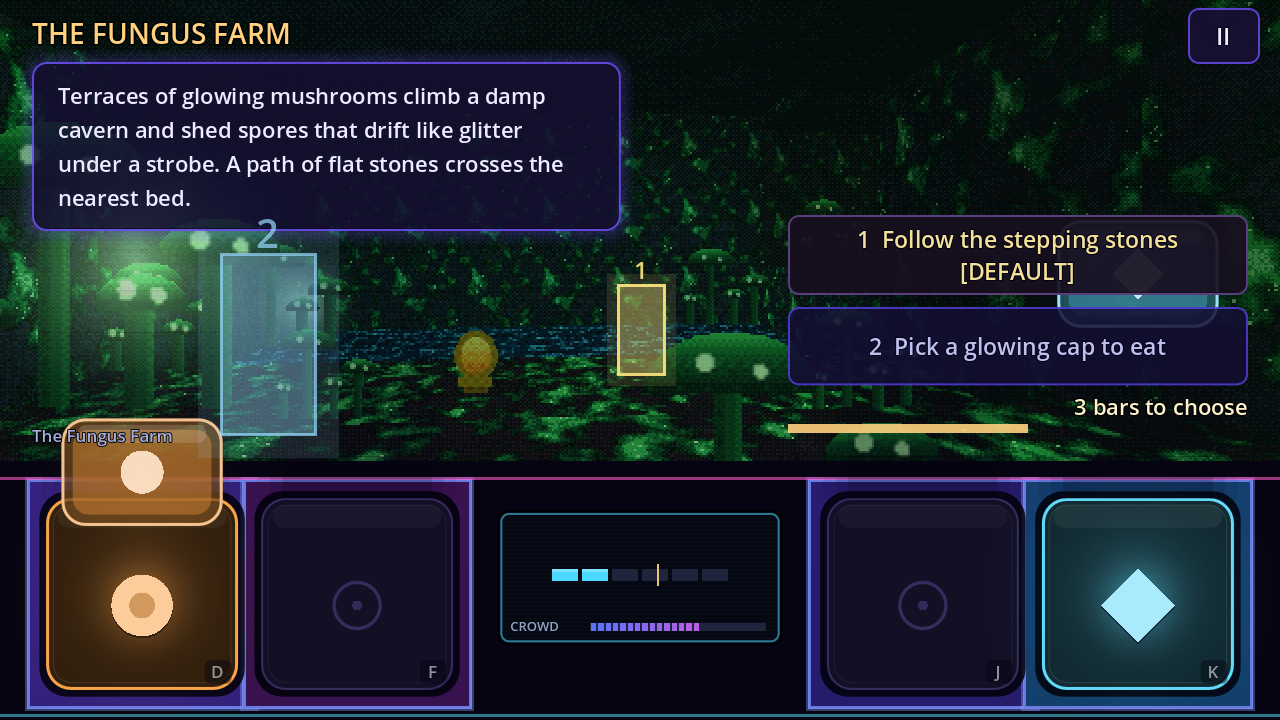
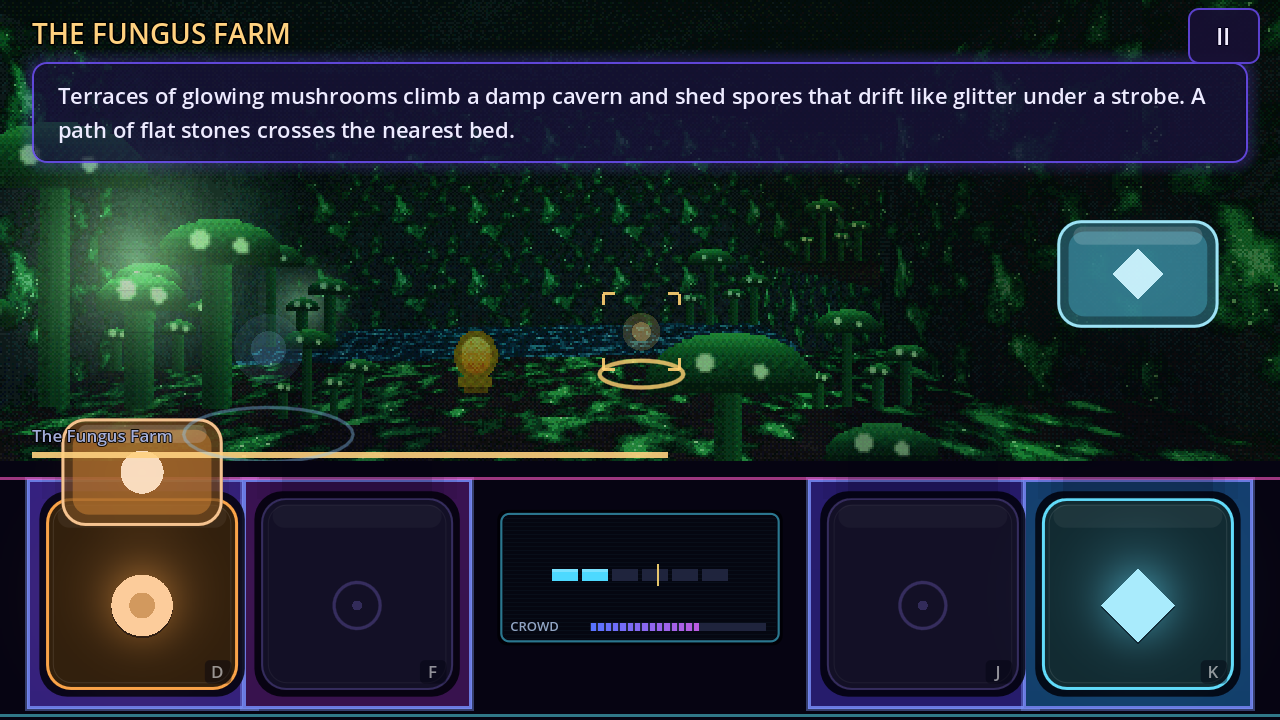
Visual, D tests, walks, shots and docs: tap walk, hotspot lights wait for the zone swap, capture before and after a selection, a fight, a death, the victory; docs for the touch model; progress note

diff --git a/docs/TRIAL_OPENING.md b/docs/TRIAL_OPENING.md
@@ -2,7 +2,7 @@
 
 The wizard in the Warehouse runs a trial in the cellars under the club: a gamebook-style dungeon, played on the same four pads, the same clock and the same music as the run. It is an original
 dungeon (63 passages in 16 zones, 10 creatures, 3 items, one victory) and it is **in the 2.5D world of the rest of the game**: each zone is a small Doom-style map on the story engine, the camera
-walks on rails between the passages' places, the choices are lit exits in the room, the creatures stand in the room, and entering and leaving are **seamless**: no scene change, no audio gap, no
+walks on rails between the passages' places, the choices are **hotspots in the room** (tap the lit exit, the creature, the rope), the creatures stand in the room, and entering and leaving are **seamless**: no scene change, no audio gap, no
 clock reset. **Only a death, three lost fight phrases, the victory or the back key lead back to the Warehouse.** This file is the single document for it. `assets/trial/PROVENANCE.md` says what is
 in the repository and where it came from.
 
@@ -13,15 +13,18 @@ godot --path .                      # Play; in the Warehouse level a wizard stan
 godot --path . res://src/trial/trial_play.tscn          # straight into the dungeon (hands over to the run scene, which hosts the dungeon)
 RW_TRIAL_START=12 godot --path . res://src/trial/trial_play.tscn       # start at any passage (12 the eel, 13 a death, 59 the Echo, 63 the victory)
 RW_TRIAL_BOT=perfect RW_TRIAL_CHOICES=d,d,1,0 godot --path . res://src/trial/trial_play.tscn   # scripted: the picks made in each window in turn
-bash tools/trial/walk_trial.sh      # scripted, headless: Warehouse > wizard > hatch > the default walk to the victory > back up into the Warehouse (isolated save)
-bash tools/trial/capture.sh         # a screenshot per zone and docs/shots/trial/contact_bassment.jpg
+RW_TRIAL_BOT=perfect RW_TRIAL_TAPS="d;d;1;0" godot --path . res://src/trial/trial_play.tscn      # the same, but each pick is a finger on the hotspot's centre, through the hit test
+bash tools/trial/walk_trial.sh      # scripted, headless: Warehouse > wizard > hatch > the default walk to the victory, then a walk whose picks are taps > back up into the Warehouse (isolated save)
+bash tools/trial/capture.sh         # a screenshot per zone, before and after a selection, a fight, a death, the victory (needs a display) and docs/shots/trial/contact_bassment.jpg
+python3 tools/trial/make_hotspots.py                                    # rewrite content/trial/hotspots.json (and the marker things of the maps) from passages.json
 godot --headless --path . -s tools/trial/validate.gd                    # check the data (passages, graph, zone maps, waypoints, exits)
-godot --headless --path . -s tools/trial/check_maps.gd [-- zone ...]    # check the zone maps and layouts one by one
+godot --headless --path . -s tools/trial/check_maps.gd [-- zone ...]    # check the zone maps, layouts and every hotspot's anchor one by one
 godot --headless --path . -s tests/run_tests.gd -- --filter trial       # the tests
 ```
 
 Bots: `perfect` plays every cue, `none` plays nothing, `no_fights` plays every cue except a fight's. `RW_TRIAL_CHOICES` is the pick made in each window in turn (an index, or `d` / empty for
-no pick, so the default applies). `RW_TRIAL_UNTIL=<passage>` with `RW_STORY_QUIT=1` quits when that passage is shown. In the run scene: `RW_TRIAL_ENTER=1` chooses the wizard at once,
+no pick, so the default applies); `RW_TRIAL_TAPS` is the same list (`;` or `,` between windows) but each pick is a **tap**: a finger on the centre of that hotspot's target, through the hit test a phone uses
+(it waits for the room to be lit after a zone swap and prints `TRIAL tap <aimed> -> <hit>`). `RW_TRIAL_UNTIL=<passage>` with `RW_STORY_QUIT=1` quits when that passage is shown. In the run scene: `RW_TRIAL_ENTER=1` chooses the wizard at once,
 `RW_TRIAL_LEAVE_AT=<song s>` presses the back key then, `RW_TRIAL_TRACE=1` prints every passage.
 
 ## The seamless entry and exit
@@ -41,29 +44,32 @@ no pick, so the default applies). `RW_TRIAL_UNTIL=<passage>` with `RW_STORY_QUIT
 
 ## How it plays
 
-* **Warehouse.** The wizard (`assets/trial/art/wizard.png`) waits at the left of the stage with a floating **Enter the Trial**, only in the Warehouse level. Ignoring it changes nothing:
-  the run goes on by its ordinary routes. Choosing it walks into the dungeon (see above).
+* **Warehouse.** The wizard (`assets/trial/art/wizard.png`) waits at the left of the stage with a floating **Enter the Trial**, only in the Warehouse level (the engine workstream turns him into a character hotspot;
+  the entry and the walk back out are unchanged). Ignoring it changes nothing: the run goes on by its ordinary routes. Choosing it walks into the dungeon (see above).
 * **The music game never stops.** Cues fall on the four pads the whole time, in 16-beat blocks (four bars) on the same clock, packs and judge as the run. Nothing pauses for reading
   or choosing.
-* **A passage.** The camera stands in the passage's place in its zone map, the title and two to four sentences appear over the room, the choices **float** at the right (big touch targets, keys 1
-  to 4) and each is also **lit in the room as a numbered exit** (a door, a ladder foot, a gap, the water's edge, a seam) where it lies; a footer names the zone and the items you carry.
-  The only inputs are the choices and the pads (the system back key leaves the dungeon; it is not a game input).
-* **Four bars to choose.** When a passage appears its choices float for exactly four bars, with a bar showing the time left. One choice is marked `[DEFAULT]`. Tap another to pick it (tap
-  again to change your mind, up to the last beat). When the four bars end the game moves on with your pick, or with the default if you picked nothing. A choice that needs an item you do
-  not hold is not shown.
-* **The phrase.** A committed choice is played as the next block of cues: a drums or bass phrase of the tier its data names. Between the choices and the phrase the music and the pads carry
+* **A passage.** The camera stands in the passage's place in its zone map. Across the top is the **caption band**: the title and two to four sentences of narrative (what the place is, what is
+  in it), never a choice, with the consequence of the last move or the stumble of a failed one on a line of its own. **Every choice is a hotspot in the room**, drawn as light and no words: a ring on the
+  floor and a glow on the thing, and four corner ticks on the default; an exit is lit where it lies (a door, a ladder foot, a gap, the water's edge, a seam), a creature **stands in the room** and
+  the fight is a tap on it, an item's place (the cracked crystal, the dark archway, a stone palm) is an object, a luck test is a feature (the pipes, the rope, the barrels, the door's grille). A hotspot behind
+  the camera is a chevron at the screen edge on its side, so everything can be tapped without turning. Targets are at least 72 px across and sit only in the picture above the pads. A footer names the
+  zone and the items you carry. The only inputs are the hotspots and the pads (the system back key leaves the dungeon; it is not a game input; keys 1 to 4 pick the hotspots in order on a desktop).
+* **Four bars to choose.** When a passage appears its hotspots are lit for exactly four bars; a thin bar along the bottom of the picture (no text) shows the time left. **One is brighter: the default**,
+  what happens if nobody chooses. Tap another to select it (it lights gold with a second ring and the default mark moves off; tap another to change your mind, up to the last beat). When the four bars end
+  the committed hotspot flashes for a beat and the game moves on with your pick, or with the default if you picked nothing. A choice that needs an item you do not hold has no hotspot.
+* **The phrase.** A committed hotspot is played as the next block of cues: a drums or bass phrase of the tier its data names (`challenge`). Between the choice and the phrase the music and the pads carry
   on without a break.
-* **A pass** walks through the chosen exit (the head turns to it when the choice is committed), shows the consequence line and opens a new four-bar window at once; if the next passage is in
-  another zone the passage frame closes on the exit and opens on the new zone on the next downbeat. **A failed phrase** keeps you where you stand with a stumble (the queasy look, a glance) and
-  the same choices; the one you failed reads "Try again: ..." and is now the default, so doing nothing retries it. Retry as often as you like.
-* **A fight** puts the creature in the room as a billboard figure in front of the camera (idle, attack and struck poses), plays the harder phrase, then an outcome: a win shows the struck pose and
-  the creature sinks and fades; a loss is a lunge in the attack pose, a red flash and the stumble. **Three lost phrases in the same
+* **A pass** walks through the chosen exit (the head turns to it when the choice is committed), shows the consequence line as a short caption and opens a new four-bar window at once; if the next passage is in
+  another zone the passage frame closes on the exit and opens on the new zone on the next downbeat (the new room's hotspots come up when it is on screen). **A failed phrase** keeps you where you stand with a
+  stumble (the queasy look, a glance) and the same hotspots; the one you failed is now the default (the bright one), so doing nothing retries it. Retry as often as you like.
+* **A fight.** The creature stands in the room (a billboard figure: idle, attack and struck poses) while the window is open, as the hotspot for the fight; tapping it (or leaving it as the default) plays the
+  harder phrase, then an outcome: a win shows the struck pose and the creature sinks and fades; a loss is a lunge in the attack pose, a red flash and the stumble. **Three lost phrases in the same
   fight end the trial** (the creature's own defeat text, then the Warehouse).
 * **A luck test** is one phrase with no second go: a pass goes one way, a miss the other (a setback that rejoins, or a death).
-* **Items and secrets.** Three items can be found (the brass lamp, the GUEST LIST token, the silver tuning fork). Each makes a choice appear somewhere else: a shortcut past the Fungus Farm,
+* **Items and secrets.** Three items can be found (the brass lamp, the GUEST LIST token, the silver tuning fork). Each makes a hotspot appear somewhere else: a shortcut past the Fungus Farm,
   a way past the bouncer without a fight, a hidden seam past the gargoyle. The footer lists what you carry.
-* **Death and victory** are the tableaux: a death shows YOU DIED, the camera looks down and the lights go out in a slow fade, with one choice, "Wake in the Warehouse" (also the default); the
-  victory is the dawn car park, a flash of daylight settling to warm light, with the same one choice. Then the walk back up the hatch.
+* **Death and victory** are the tableaux: a death shows YOU DIED, the camera looks down and the lights go out in a slow fade, with one hotspot, the way out (also the default); the
+  victory is the dawn car park, a flash of daylight settling to warm light, with the same one hotspot. Then the walk back up the hatch.
 
 ### The timeline
 
@@ -122,7 +128,8 @@ wizard's sandwich.
 
 ## Where to add the next passage
 
-Everything about the dungeon lives in `content/trial/passages.json`. A passage:
+Everything about the dungeon lives in `content/trial/passages.json`; **`content/trial/hotspots.json` is made from it** (`python3 tools/trial/make_hotspots.py`, never edited by hand: one hotspot per choice, keyed by
+passage, `id` `trial.<passage>.<n>` with n the choice's index, the contract of `docs/VISUAL_RHYTHM_ADVENTURE_PLAN.md` section 2). A passage:
 
 ```json
 "37": {
@@ -152,7 +159,11 @@ Everything about the dungeon lives in `content/trial/passages.json`. A passage:
 4. **Items** are under `"items"` (id to display name); `grants` gives one on entering a passage and `requires` hides a choice until it is held. The flow keeps them in `TrialFlow.flags`.
 5. Every passage also needs `"map"` and `"waypoint"` and every choice `"exit_wp"` (write them in `content/trial/layout/<zone>.json` and run `python3 tools/trial/apply_layout.py`; the validator
    checks them). New zone: add it under `"zones"` (`name`, `look`, `tier`, `scene`, `map`), a scene file and a map `content/story/maps/bassment_<zone>.json`; new creature: add a function to `tools/trial/make_creatures.py` and an entry under `"encounters"`.
-6. Run `godot --headless --path . -s tools/trial/validate.gd`: it lists every broken link, missing scene, phrase, item or encounter, unreachable passage, the walk by defaults, and prints the
+6. **Hotspots.** After any change to `passages.json` run `python3 tools/trial/make_hotspots.py`. The kind comes from the choice: a fight is an `encounter` (anchored to a marker thing `hs_<creature>` that the script writes
+   into the zone map where the creature stands, `TrialScene.figure_spot`; a new creature needs an entry in the script's `FIGURES` and in the scene's), a luck test is a `feature`, a choice that needs an item or whose
+   place grants one is an `object`, everything else an `exit` anchored to its `exit_wp`. Features and objects name an existing thing of the map in the script's `THINGS` table (the rope, the pipes, the door) or a marker.
+   `check_maps.gd` and `tests/test_trial.gd` fail when the file and the passages disagree (defaults, routes, challenge family and tier, availability, anchors that are not in the map).
+7. Run `godot --headless --path . -s tools/trial/validate.gd`: it lists every broken link, missing scene, phrase, item or encounter, unreachable passage, the walk by defaults, and prints the
    counts. Run `tests/test_trial.gd` for the content rules (60 to 80 passages, about ten fights, six luck tests, six deaths).
 
 `"music"` names the pack whose recordings and chart the phrases use (`audio`, `chart`, `treatment`). `fight_audio` and `fight_chart` are a second pack id for fights; they are read and
@@ -186,9 +197,11 @@ owner's `dd_part1` and `dd_part2`), point `audio`/`chart` at the ambient set and
 | Piece | File |
 | --- | --- |
 | data and validator (incl. zone maps, waypoints, exits) | `src/trial/trial_data.gd`, `content/trial/passages.json`, `content/story/maps/bassment_*.json`, `tools/trial/validate.gd`, `check_maps.gd` |
+| the hotspots: data, generator, which a player may see, where an anchor stands, the agreement check | `content/trial/hotspots.json`, `tools/trial/make_hotspots.py`, `src/trial/trial_hotspots.gd` |
+| the lights and the taps (a thin fallback, deleted when the engine workstream's `hotspot_view` is merged) | `src/trial/trial_hotspot_fallback.gd` |
 | rules (no nodes) | `src/trial/trial_flow.gd` |
 | the clock, blocks and windows (no nodes; `origin` is the downbeat it starts on) | `src/trial/trial_engine.gd` (uses `RunData` packs and `PadJudge`) |
-| the scene (zone stages, camera, exits, figures, tableaux) | `src/trial/trial_scene.gd`, hosted by `src/run/run_play.gd` (`arm_trial`, `trial_begin_now`, `trial_leave`); `trial_play.tscn` is a launcher |
+| the scene (zone stages, camera, caption band, hotspots, figures, tableaux) | `src/trial/trial_scene.gd`, hosted by `src/run/run_play.gd` (`arm_trial`, `trial_begin_now`, `trial_leave`); `trial_play.tscn` is a launcher |
 | the run side of the transitions | `RunEngine.resume`, `RunAudio` (unchanged: a `phase_start` per group), `RunPassage` |
 | the wizard | `src/run/run_play.gd` `_build_gate`, flag `trial_gate` on the Warehouse in `content/run/run.json`; the `hatch` waypoint in `content/story/maps/night_one.json` |
 | art | `tools/story/art/tex_bassment.py`, `tools/trial/make_creatures.py` |
@@ -196,26 +209,29 @@ owner's `dd_part1` and `dd_part2`), point `audio`/`chart` at the ambient set and
 
 ## Verification
 
-Automated (`tests/test_trial.gd`, 38 tests):
+Automated (`tests/test_trial.gd`, 42 tests):
 
 * **the content**: 63 passages (60 to 80), 16 zones, 10 fights each with a different creature and three lives, 7 luck tests, 6 deaths plus the defeat passage, one victory, 22 side passages,
   3 items behind 3 gated choices; **every zone's map is valid with 2 to 4 sectors and at least two lights; every passage's waypoint and every exit is a waypoint of its map, reachable by the
   rail and somewhere else in the room; a missing waypoint or exit is refused**;
 * **reachability and defaults**, **items**, **fights, luck, deaths**, **timing and music** (the music game never stops; windows last exactly 16 beats; the commit is on beat 12.75; a pick beats
   the default; a failed phrase reopens the window with the failed option as the default): on the engine, as before;
-* **the scene** in a phone-sized 844x390 view on the real run scene (virtual clock): a 2.5D stage with the exits lit and numbered, two floating choices of at least 140x40 px above the pads,
-  the bars-left readout, the zone footer, items in the footer; defaults walk through zone swaps (a swap lands on a block's downbeat, the frame is shut before it); death and victory walk back to
+* **the hotspots**: the file agrees with the passages (95 hotspots: 74 exits, 10 creatures, 7 features, 4 objects), every anchor is in its zone map, the creature marker stands where the figure does,
+  an item's hotspot appears only with the item; every hotspot of every passage has a target of at least 72 px from where the camera stands and can be hit at its centre;
+* **the scene** in a phone-sized 844x390 view on the real run scene (virtual clock): a 2.5D stage with the hotspots lit (the default brighter), no button and no choice written anywhere, the caption band across
+  the top, a tap selecting and changing the pick (and keys 1 to 4), a tap off a target picking nothing, targets at least 72 px and never over the pads, the thin bar full at four bars, the zone footer, items in the footer; defaults walk through zone swaps (a swap lands on a block's downbeat, the frame is shut before it); death and victory walk back to
   the Warehouse; three lost phrases end the trial; a fight puts the creature on the floor of its zone, it lunges when the phrase is lost and shows struck when won;
 * **the wizard and the transitions**: "Enter the Trial" appears in the Warehouse only and does not touch the pads; ignoring it leaves by the default route; choosing it sends the camera to
   the hatch on the next guard, the dungeon takes the pads on the guard after, the Warehouse stays on screen until the downbeat, the Service Hatch opens on it, the dungeon's beat grid starts
   there and its first cue is on the run's grid; the back key leaves on a downbeat of that grid, the run resumes there as a fresh phase with the energy kept and the Warehouse on screen.
 
 Run by script: `bash tools/trial/walk_trial.sh` (a virtual run from the Warehouse into the dungeon, the default walk through all 16 zones to Daylight, about 330 s of song time, back into the
-Warehouse: `WALK OK`). Recorded in real time (`tools/story/record_music.gd` on the run scene with `RW_TRIAL_ENTER=1 RW_TRIAL_LEAVE_AT=30`, then `tools/trial/check_transition_audio.py`): the
+Warehouse, then the same with three of the picks made by taps through the hit test: `WALK OK`). Recorded in real time (`tools/story/record_music.gd` on the run scene with `RW_TRIAL_ENTER=1 RW_TRIAL_LEAVE_AT=30`, then `tools/trial/check_transition_audio.py`): the
 numbers are in the progress note of `docs/RUN_DUNGEON_MUSIC_PLAN.md` section 7.
 
-Seen (`docs/shots/trial/`, 1280x720 on a real window): `contact_bassment.jpg` and `zone_<zone>.png` for every zone, `entry_1` to `entry_5` (the walk to the hatch, the frame closing, the
-Service Hatch opening), `fight_1_eel`, `fight_2_eel_lunges`, `death_tableau`, `victory_tableau`.
+Seen (`docs/shots/trial/`, 1280x720 on a real window, `bash tools/trial/capture.sh`): `contact_bassment.jpg` and `zone_<zone>.png` for every zone (the hotspots lit, the default brighter),
+`select_before` / `select_after` (a tap moves the gold ring), `fight_1_hotspot` (the eel stands in the room as the fight's hotspot), `fight_2_phrase`, `fight_3_win`, `death_before` / `death_tableau`,
+`victory_before` / `victory_tableau`, and the older `entry_1` to `entry_5` (the walk to the hatch, the frame closing, the Service Hatch opening; not regenerated by capture.sh).
 
 Not done: nobody has played this by hand or on a phone; the camera has no pitch control in the zone maps' authored views, so the shaft and the pit are seen across rather than looked down into;
 the fight pack (`fight_audio`) is read and checked but one pack plays throughout; the creatures are enlarged portraits, not rigged figures.

diff --git a/docs/VISUAL_RHYTHM_ADVENTURE_PLAN.md b/docs/VISUAL_RHYTHM_ADVENTURE_PLAN.md
@@ -96,3 +96,19 @@ stops; every world, scene, route, ending, secret and encounter reachable; the co
 ## 9. Risks
 Small projected targets on phones (minimum 72 px and nearest-within-radius); authoring volume (2 to 4 hotspots per scene, reconnecting branches); the Bassment's narrative without choice text
 (captions carry it); two plans on one engine (ownership in the music plan's section 6; the coordinator integrates).
+
+## 10. Progress log
+
+### D, the Bassment conversion (Sonnet, 2026-11-05)
+
+Commits "Visual, D hotspots", "Visual, D scene", "Visual, D tests, walks, shots and docs". `docs/VisualChoicePlan.md` was not in the repository when this was built: the plan's sections were the brief.
+
+* **Data**: `content/trial/hotspots.json` (made by `tools/trial/make_hotspots.py` from `passages.json`, never edited by hand): 95 hotspots for the 64 passages (63 plus the defeat passage), keyed by passage, `trial.<passage>.<n>` (n is the index in the passage's full choice list,
+  gated choices included): 74 exit (anchor `{"waypoint": exit_wp}`), 10 encounter (anchor a marker thing `hs_<creature>` at the figure's spot), 7 feature (the luck tests: junction box, pipes, barrels, mirror (marker `hs_mirror`), rope, palm path, the door), 4 object (the cracked crystal,
+  the dark archway, the velvet-rope token, the stone palm). Beyond the contract's keys each carries `choice` (the index) and `challenge.phrase`; `on_success.caption` is the consequence text; `on_failure` is `{hold, make_default, caption}` for a plain choice,
+  `{hold, make_default, lives, on_defeat: {route: "0"}, caption}` for a fight, `{route: <fail passage>}` for a luck test, null for the way out. The only edit to the zone maps is the 11 marker `thing` lines (ids starting `hs_`, `thing_glow` at size 0.05, rewritten on every run of the script).
+  `src/trial/trial_hotspots.gd` loads it (visible-with-items, anchor point) and validates it against `passages.json` and the maps; `check_maps.gd` and `tests/test_trial.gd` run that. It lives outside `trial_data.gd`, which the engine workstream owns.
+* **Scene**: caption band (narrative only; consequence and stumble lines kept), no floating labels or numbers, a thin no-text bar for the four bars, hotspots as light in the room (ring and glow, the default brighter with corner ticks, the selected gold with a second ring, a committed one flashing a beat), creatures standing in the room as soon as the window opens
+  (the fight is a tap on them), keys 1 to 4 kept, the wizard entry untouched (`run_play.gd` is not mine). `RW_TRIAL_TAPS` makes scripted picks real taps.
+* **Fallback to delete at the merge with A**: `src/trial/trial_hotspot_fallback.gd` (the lights, the hit test, edge chevrons for hotspots behind the camera) and in `trial_scene.gd` the `_hot` field, `_sync_hotspots`, `hotspot_items/rects`, `tap_at`, `tap_hotspot` and the `_hot_key` re-sync in `update`, replaced by A's `hotspot_view` fed the same data
+  (`TrialHotspots.visible`/`anchor_point` give availability and the anchor's world position; `hotspot_of(index)` the data). `RunExitsView` is no longer used by the Bassment.
